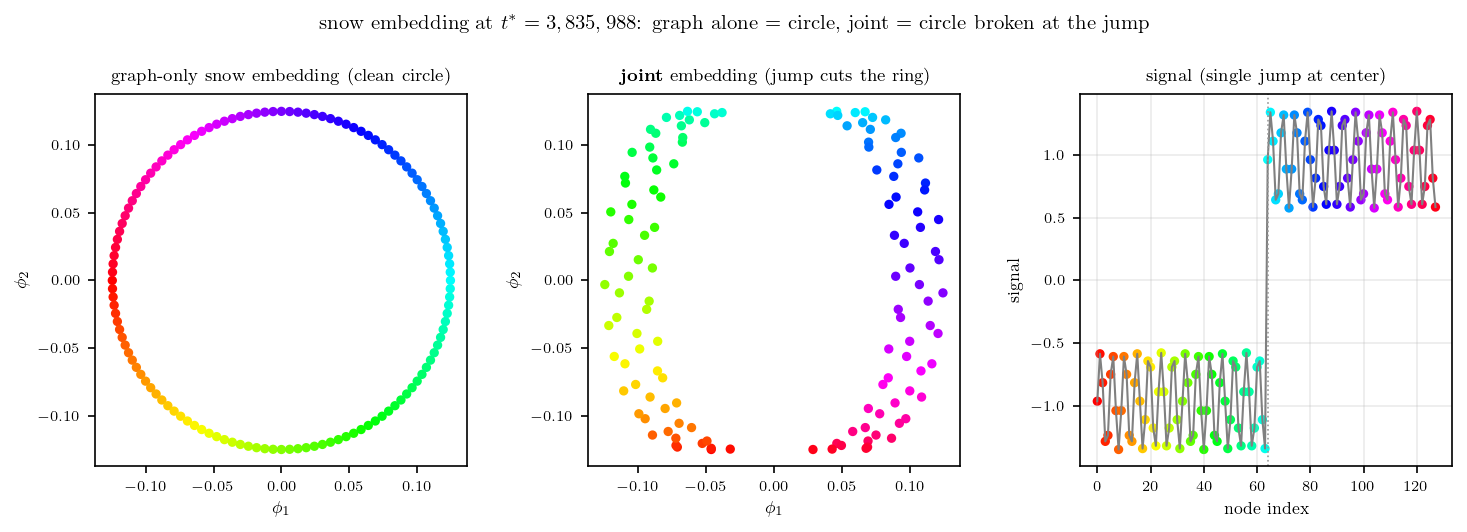
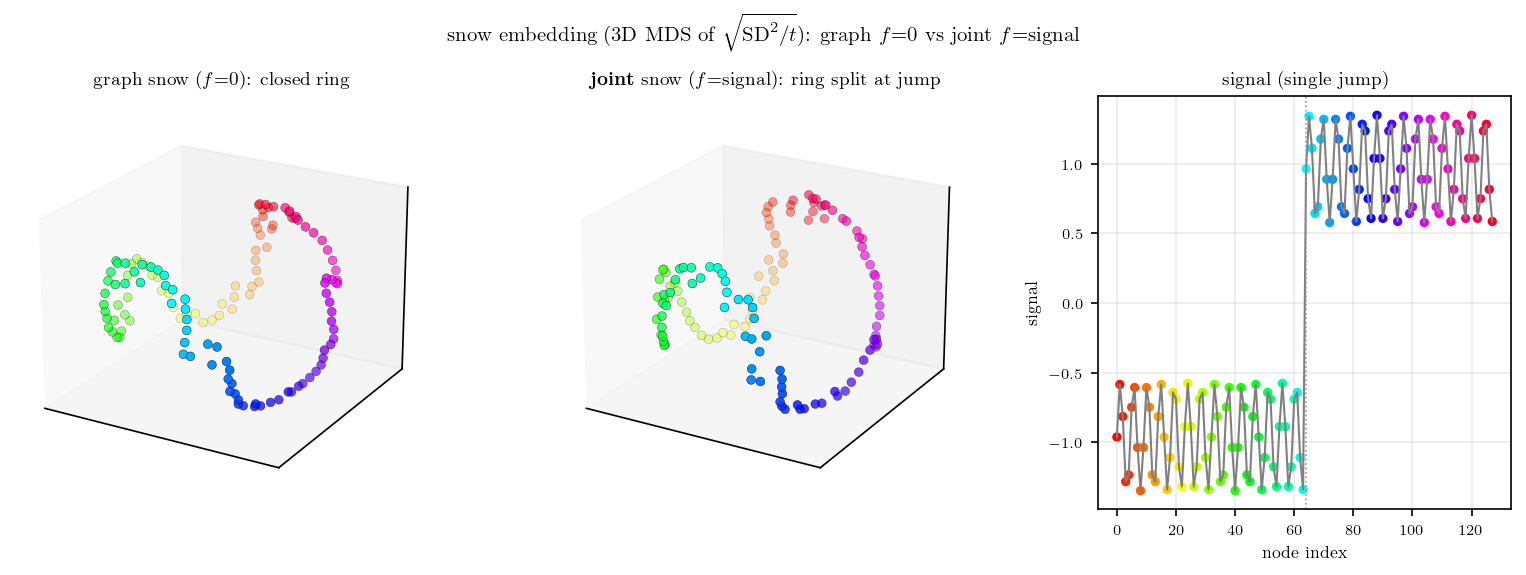
fix: joint 임베딩을 소미 정본 방식으로 (대표 지적)
- 임의 정의(double-center pinv + α·신호거리) 폐기
- 정본: √(SD²/t) → sklearn 3D MDS (260517_24예제_3패널 방식)
- snow 초기 높이 = 신호 f (pyhst 정본) → SD²가 그래프+신호 자동 포함
  f=0 닫힌 링 / f=신호 점프에서 끊긴 링
- full N×N SD online 누적(numba)으로 OOM 회피 (pyhst.snow 거리계산 N²t OOM 대체)

diff --git a/docs/Posts/260604_a7f3c1.html b/docs/Posts/260604_a7f3c1.html
@@ -191,7 +191,7 @@ window.Quarto = {
 <p>문제는 메모리임. 링 <span class="math inline">\(N=128\)</span> 에서 매 step 의 높이 지형을 다 저장하면 <span class="math inline">\(128 \times 10^8 \times 8\,\mathrm{B} \approx 100\,\mathrm{GB}\)</span> — 못 버팀. 그런데 링은 회전 대칭이라 거리 행렬이 circulant 임. 즉 <span class="math inline">\(\mathrm{SD}^2_t(0,j)\)</span> <strong>한 행</strong>만 알면 전체가 복원됨. 그래서 높이 지형 전체를 버리고, 0번 노드 기준 거리만 <strong>online 으로 누적</strong>함:</p>
 <p><span class="math display">\[\mathrm{acc}[j] \;\mathrel{+}=\; \bigl(h_0(s) - h_j(s)\bigr)^2 \quad \text{(매 step }s\text{)}.\]</span></p>
 <p>이러면 메모리는 <span class="math inline">\(O(N)\)</span> 으로 고정됨 — 1억을 태워도 안 터짐. walker 한 칸 옮기는 게 전부라 numba 로 6초면 끝남.</p>
-<div id="4823f557" class="cell" data-execution_count="1">
+<div id="d0f492cc" class="cell" data-execution_count="1">
 <details class="code-fold">
 <summary>Code</summary>
 <div class="code-copy-outer-scaffold"><div class="sourceCode cell-code" id="cb1"><pre class="sourceCode python code-with-copy"><code class="sourceCode python"><span id="cb1-1"><a href="#cb1-1" aria-hidden="true" tabindex="-1"></a><span class="im">from</span> numba <span class="im">import</span> njit</span>
@@ -250,14 +250,15 @@ window.Quarto = {
 </section>
 <section id="t-의-임베딩-점프가-링을-끊는다" class="level2">
 <h2 class="anchored" data-anchor-id="t-의-임베딩-점프가-링을-끊는다"><span class="math inline">\(t^*\)</span> 의 임베딩 — 점프가 링을 끊는다</h2>
-<p>같은 <span class="math inline">\(t^*\)</span> 의 snow 연산자 <span class="math inline">\(B_{t^*}=-\tfrac12 J C_{t^*} J\)</span> 를 고유분해해서, 큰 고유값 쪽 고유벡터 두 개로 노드를 찍어봄. 이게 snow embedding 임. 두 가지를 나란히 봄 — 왼쪽은 snow 거리(그래프)만, 가운데는 snow 거리에 신호 거리 <span class="math inline">\((s_i-s_j)^2\)</span> 를 섞은 <strong>joint</strong> 거리임.</p>
+<p>snow distance 로 노드를 좌표공간에 박아봄 (embedding). 방식은 거리행렬 <span class="math inline">\(\sqrt{\mathrm{SD}^2/t}\)</span> 를 3D MDS 에 넣는 것 — snow 거리가 그대로 좌표가 됨. 여기서 핵심은 snow 의 출발 높이임. snow 는 매 step 눈을 쌓기 전에 <strong>초기 높이를 신호값으로 두고 시작</strong>함. 그래서 SD distance 안에 그래프 구조와 신호가 같이 들어감.</p>
+<p>두 경우를 나란히 봄 — 왼쪽은 초기 신호를 <span class="math inline">\(f=0\)</span> 으로 둔 것(그래프 구조만), 가운데는 초기 신호를 진짜 신호로 둔 것(그래프 + 신호).</p>
 <div class="quarto-figure quarto-figure-center">
 <figure class="figure">
 <p><img src="attachments/260604_a7f3c1_03.png" class="img-fluid quarto-figure quarto-figure-center figure-img"></p>
 </figure>
 </div>
-<p>왼쪽(그래프만)은 <strong>완벽한 원</strong>임. 노드 번호를 안 줬는데도 snow 거리가 링의 위상을 다 담고 있음 — 거리만으로 그래프가 복원됨. 그런데 이건 신호를 안 본 graph-domain 결과라, 신호가 뭐든 항상 같은 원이 나옴.</p>
-<p>가운데(joint)가 진짜 보고 싶었던 거임. 신호의 점프를 거리에 넣으면 원이 <strong>점프 자리에서 두 호로 끊어짐</strong> — 신호가 같은 평탄 구간끼리는 가깝고, 점프를 사이에 둔 노드끼리는 멀어지기 때문임. 위상(링)과 데이터(점프)가 한 그림에 같이 드러나는 게 joint-domain 의 핵심임. graph 만 보면 끊김이 안 보이고, 신호만 보면 위상이 안 보이는데, snow 거리에 둘을 섞으니 둘 다 보임.</p>
+<p>왼쪽(<span class="math inline">\(f=0\)</span>)은 <strong>닫힌 링</strong>으로 복원됨. 노드 번호를 안 줬는데도 snow 거리가 링의 위상을 다 담고 있음 — 거리만으로 그래프 모양이 살아남. 그런데 이건 신호를 안 깐 결과라, 신호가 뭐든 항상 같은 링이 나옴.</p>
+<p>가운데(<span class="math inline">\(f=\)</span>신호)가 진짜 보고 싶었던 거임. 초기 높이에 신호를 깔면 링이 <strong>점프 자리에서 끊어짐</strong> — 신호가 비슷한 구간끼리는 높이도 비슷하게 출발해서 가깝고, 점프를 사이에 둔 노드끼리는 출발 높이가 벌어져서 멀어지기 때문임. 위상(링)과 데이터(점프)가 한 그림에 같이 드러나는 게 핵심임. 그래프만 보면 끊김이 안 보이고 신호만 보면 위상이 안 보이는데, snow 가 둘을 한 거리 안에 담아서 둘 다 보임.</p>
 </section>
 <section id="마무리" class="level2">
 <h2 class="anchored" data-anchor-id="마무리">마무리</h2>
@@ -267,7 +268,7 @@ window.Quarto = {
 <li>snow 디노이징이 약했던 건 방법이 틀려서가 아니라 <strong>거리를 덜 태워서</strong>였음. 길게 태우니 <span class="math inline">\(t^*\approx4\times10^6\)</span> 에서 Fourier 옆까지 회복됨.</li>
 <li>1억을 메모리 안 터지게 돌린 열쇠는 circulant 대칭 + online 단일행 누적. full 지형을 버리니 <span class="math inline">\(O(N)\)</span> 으로 고정됨.</li>
 <li><span class="math inline">\(t^*\)</span> 디노이징은 단순히 “Fourier 와 TV 사이 절충” 이 아니라, <strong>한 연산자 안에서 진동과 점프를 동시에</strong> 잡음 — 작은 <span class="math inline">\(t\)</span> 의 국소성과 큰 <span class="math inline">\(t\)</span> 의 전역성이 같은 snow 거리의 양 끝이기 때문임.</li>
-<li>임베딩에서 graph 만 보면 깨끗한 원, 신호를 섞으면 점프 자리에서 끊어진 두 호 — 위상과 데이터가 한 그림에 같이 사는 게 joint-domain 의 증거임.</li>
+<li>임베딩에서 <span class="math inline">\(f=0\)</span> 이면 닫힌 링, 초기 높이에 신호를 깔면 점프 자리에서 끊어진 링 — 위상과 데이터가 한 거리 안에 같이 사는 게 snow embedding 의 증거임.</li>
 </ul>
 </section>
 <section id="향후-실험" class="level3">
